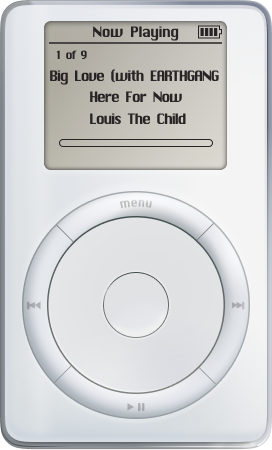
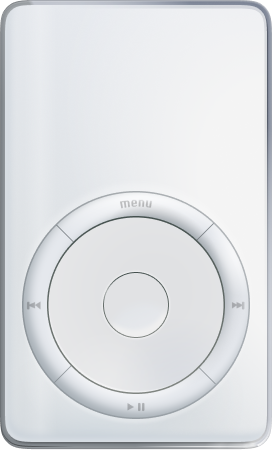
interactive phone

Changed region(s): [[0.1471, 0.0311, 0.8529, 0.4044]]

diff --git a/book.html b/book.html
@@ -13,8 +13,11 @@
     </head>
     <body>
 
-        <div class = "iPod" id="song1">
-
+        <div class="iPodContainer" id="song1">
+            <div>
+                <div class = "screen"></div>
+                <img class="iPod" src="/visuals/iPod.png">
+            </div>
         </div>
 
         <script defer src="./main.js"></script>
@@ -22,38 +25,38 @@
             <div id="controls">
                 <div id='next'></div>
                 <div id='prev'></div>
-               
+
             </div>
-            <article class="book" id = "pages">
-                <section class="page active" >
-                    <div class="content" id = "cover">
-                     
-                       
+            <article class="book" id="pages">
+                <section class="page active">
+                    <div class="content" id="cover">
+
+
                     </div>
                 </section>
-                <section class="page" >
-                    <div class="content" id = "pg1">
-                      
+                <section class="page">
+                    <div class="content" id="pg1">
+
                     </div>
                 </section>
                 <section class="page">
                     <div class="content">
-                        
+
                     </div>
                 </section>
                 <section class="page">
                     <div class="content">
-                       
+
                     </div>
                 </section>
                 <section class="page">
                     <div class="content">
-                        
+
                     </div>
                 </section>
 
             </article>
-         
+
         </div>
 
     </body>

diff --git a/mobile.css b/mobile.css
@@ -14,16 +14,37 @@ body {
   width: 100%;
   height: 100%;
 }
-.iPod{
+.iPodContainer{
   margin: 0 auto;
-  width: 30vw;
-  height: 70vw;
-  background-size:     contain;                   
-  background-repeat:   no-repeat;
-  background-position: center center;             
+  width: 25vw;
+  height: 50vw;
+  
 }
-#song1{
-  background-image: url(./visuals/iPod.png);
+.iPod{
+  margin-top: 5vw;
+  margin-bottom: 5vw;
+  width: 25.25vw;
+  height: 41vw;
+  border-radius: 2vw;
+  box-shadow: var(--shadow-elevation-high);        
+
+}
+
+.screen{
+  position: absolute;
+  margin-left: auto;
+  margin-right: auto;
+  margin-top: 7vw;
+  left: 0;
+  right: 0;
+  text-align: center;  
+width: 17vw;
+height: 13.28vw;
+
+background: linear-gradient(138.97deg, rgba(255, 255, 255, 0) 23.27%, rgba(245, 243, 233, 0.6) 98.19%), linear-gradient(56.46deg, #A09B8C 0%, #BAB7B0 100%);
+opacity: 0.9;
+box-shadow: 0px 4px 4px rgba(255, 255, 255, 0.25), inset 0px -1px 3px rgba(0, 0, 0, 0.35), inset 0px 1px 7px rgba(0, 0, 0, 0.65);
+border-radius: 7px;
 }
 h1 {
   text-align: center;
@@ -40,9 +61,9 @@ h1 {
     3.6px 5.5px 7.1px -1.9px hsl(var(--shadow-color) / 0.36),
     8.9px 13.7px 17.5px -2.8px hsl(var(--shadow-color) / 0.34);
     --shadow-elevation-high:
-    0.1px 0px 0.1px hsl(var(--shadow-color) / 0.37),
-    2.2px 0.3px 2.9px -0.7px hsl(var(--shadow-color) / 0.58),
-    8.1px 1.2px 10.6px -1.3px hsl(var(--shadow-color) / 0.79);
+    0.1px 0.1px 0.1px hsl(var(--shadow-color) / 1),
+    1.5px 1.5px 2px -1.9px hsl(var(--shadow-color) / 0.88),
+    8.5px 8.1px 11px -3.7px hsl(var(--shadow-color) / 0.63);
 }
 
 .scene {
